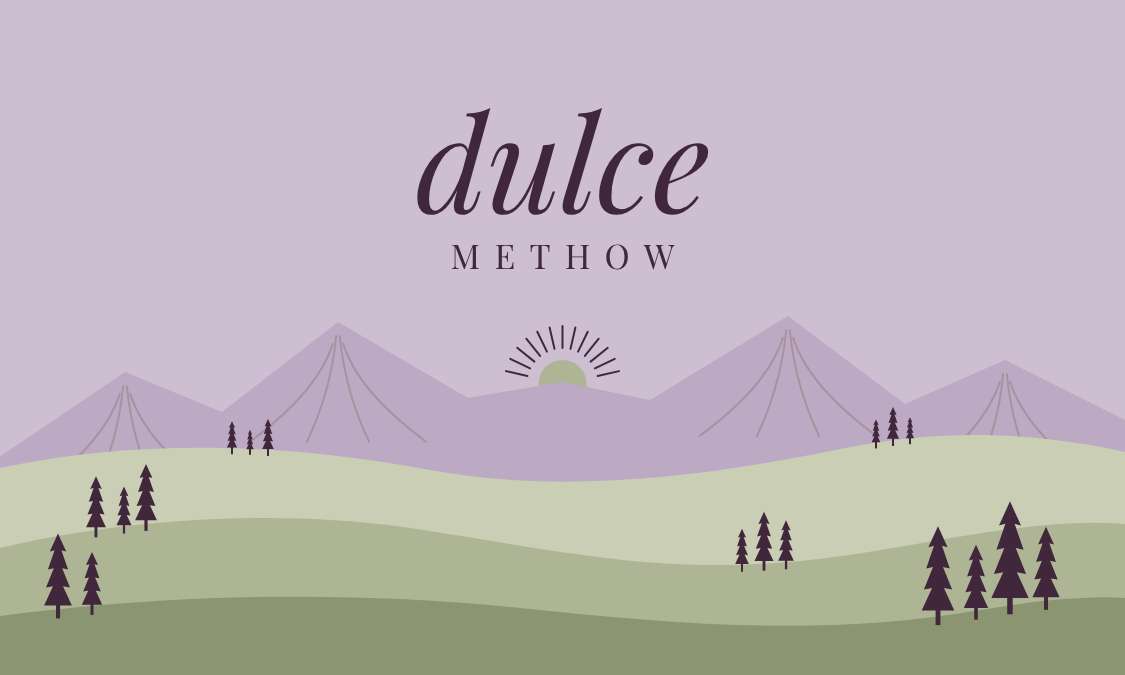
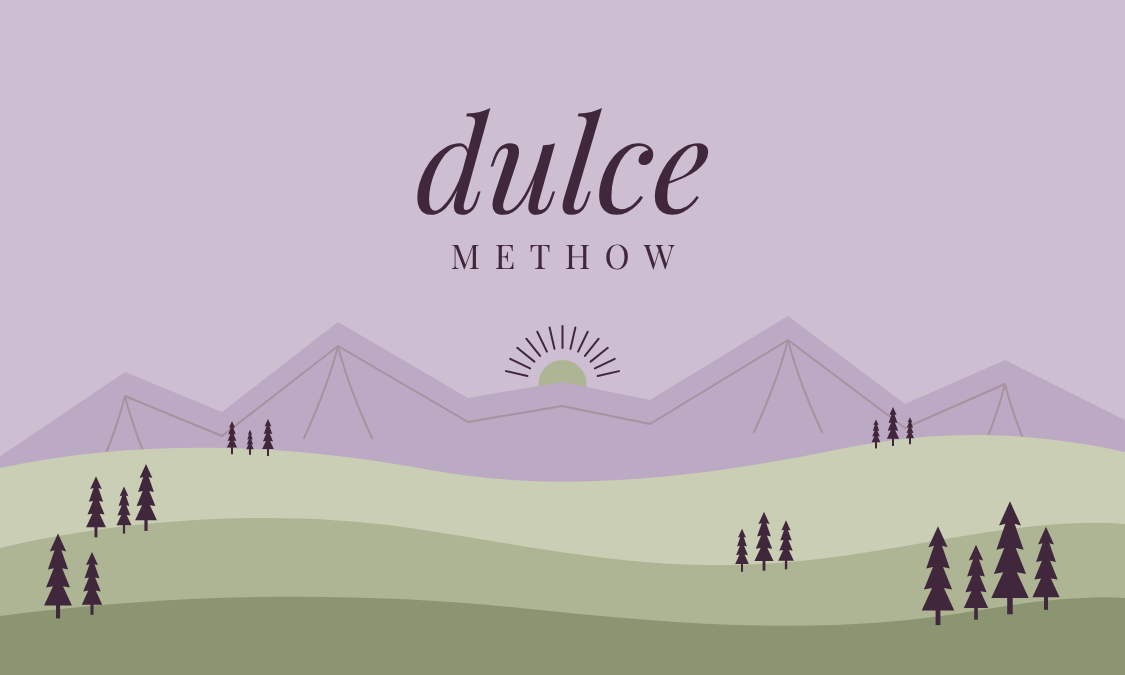
Redesign Dulce Methow business card 5 (modern minimal)
Claude-Session: https://claude.ai/code/session_013XA8P2WAmpXZJM5TfkydHJ

diff --git a/dulce-methow/tarjetas/4-kraft-sello/back.html b/dulce-methow/tarjetas/4-kraft-sello/back.html
@@ -2,59 +2,80 @@
 <html lang="en">
 <head>
 <meta charset="utf-8">
+<meta name="viewport" content="width=1125">
 <title>Dulce Methow card · Loyalty back</title>
 <link rel="stylesheet" href="https://fonts.googleapis.com/css2?family=Lora:ital,wght@0,400;0,500;1,400&family=Playfair+Display:ital,wght@0,400;0,600;1,400;1,500&display=swap">
 <style>
-  :root{--cream:#FAF6EB;--lav:#CDBED2;--sage:#AEB594;--plum:#40273B;--sand:#D9C7AE}
+  :root{--cream:#FAF6EB;--sage:#AEB594;--sagedark:#66704F;--plum:#40273B}
   body{margin:0;background:var(--cream)}
-  .card{position:relative;width:1125px;height:675px;overflow:hidden;background:var(--cream);color:var(--plum);text-align:center}
-  .title{position:absolute;left:75px;right:75px;top:92px;margin:0;font-family:'Playfair Display',serif;font-style:italic;font-weight:400;font-size:64px;line-height:1}
-  .sub{position:absolute;left:75px;right:75px;top:176px;margin:0;font-family:'Lora',serif;font-size:32px;line-height:1.2}
-  .grid{position:absolute;left:0;top:0}
-  .foot{position:absolute;left:75px;right:75px;top:540px;margin:0;font-family:'Lora',serif;font-size:28px;line-height:1.2;letter-spacing:.02em}
+  .card{position:relative;width:1125px;height:675px;overflow:hidden;background:var(--cream);color:var(--plum)}
+  .layer{position:absolute;left:0;top:0}
+  /* margins: x 110–1015, y 110–565 */
+  .wordmark{position:absolute;left:110px;top:104px;margin:0;white-space:nowrap;line-height:1}
+  .wordmark .d{font-family:'Playfair Display',serif;font-style:italic;font-size:40px}
+  .wordmark .m{font-family:'Playfair Display',serif;font-size:24px;letter-spacing:.4em;margin-left:12px}
+  .title{position:absolute;left:110px;top:243px;margin:0;font-family:'Playfair Display',serif;font-style:italic;font-weight:400;font-size:58px;line-height:1}
+  .rules{position:absolute;left:110px;top:323px;margin:0;font-family:'Lora',serif;font-size:28px;line-height:1.55}
+  .foot{position:absolute;left:110px;right:110px;bottom:110px;display:flex;justify-content:space-between;align-items:baseline;line-height:1}
+  .name{margin:0;display:flex;align-items:baseline}
+  .name .lab{font-family:'Lora',serif;font-weight:500;font-size:24px;letter-spacing:.22em;text-transform:uppercase;color:var(--sagedark)}
+  .name .blank{display:inline-block;width:330px;height:2px;background:var(--plum);margin-left:16px}
+  .handle{margin:0;font-family:'Lora',serif;font-size:28px;line-height:1}
+  .num{font-family:'Lora',serif;font-size:24px;letter-spacing:.12em;fill:#66704F}
 </style>
 </head>
 <body>
 <div class="card">
-  <p class="title">Sweet rewards</p>
-  <p class="sub">Buy 9 shell buns, the 10th is on us</p>
+  <p class="wordmark"><span class="d">dulce</span><span class="m">METHOW</span></p>
 
-  <svg class="grid" width="1125" height="675" viewBox="0 0 1125 675" aria-hidden="true">
-    <defs>
-      <circle id="slot" r="50" fill="none" stroke="#40273B" stroke-width="2.5"/>
-    </defs>
-    <!-- row 1 -->
-    <use href="#slot" x="282.5" y="318"/>
-    <use href="#slot" x="422.5" y="318"/>
-    <use href="#slot" x="562.5" y="318"/>
-    <use href="#slot" x="702.5" y="318"/>
-    <use href="#slot" x="842.5" y="318"/>
-    <!-- row 2 -->
-    <use href="#slot" x="282.5" y="448"/>
-    <use href="#slot" x="422.5" y="448"/>
-    <use href="#slot" x="562.5" y="448"/>
-    <use href="#slot" x="702.5" y="448"/>
-    <!-- 10th: sage fill + concha line icon -->
-    <g transform="translate(842.5 448)">
-      <circle r="50" fill="#AEB594" stroke="#40273B" stroke-width="2.5"/>
-      <g transform="translate(0 -2) scale(1.12)" fill="none" stroke="#40273B" stroke-width="2" stroke-linecap="round" stroke-linejoin="round">
-        <!-- bun dome -->
-        <path d="M-30 16 C-32 -8 -18 -26 0 -26 C18 -26 32 -8 30 16 Z" fill="#FAF6EB"/>
-        <!-- scored shell lines fanning from the base -->
-        <path d="M0 16 L0 -26"/>
-        <path d="M-3 16 C-10 2 -14 -12 -12 -23"/>
-        <path d="M3 16 C10 2 14 -12 12 -23"/>
-        <path d="M-6 16 C-17 6 -24 -4 -24 -15"/>
-        <path d="M6 16 C17 6 24 -4 24 -15"/>
-        <path d="M-9 16 C-20 12 -28 6 -30 -2"/>
-        <path d="M9 16 C20 12 28 6 30 -2"/>
-        <!-- plate line -->
-        <path d="M-36 22 L36 22"/>
+  <p class="title">Sweet rewards</p>
+  <p class="rules">Buy 9 shell buns,<br>the 10th is on us.</p>
+
+  <!-- stamp grid: 5 × 2, d = 81, gap 20 × 24, right edge on the 1015 margin -->
+  <svg class="layer" width="1125" height="675" viewBox="0 0 1125 675" aria-hidden="true">
+    <g fill="none" stroke="#40273B" stroke-width="2">
+      <circle cx="570.5" cy="285.5" r="40.5"/>
+      <circle cx="671.5" cy="285.5" r="40.5"/>
+      <circle cx="772.5" cy="285.5" r="40.5"/>
+      <circle cx="873.5" cy="285.5" r="40.5"/>
+      <circle cx="974.5" cy="285.5" r="40.5"/>
+      <circle cx="570.5" cy="390.5" r="40.5"/>
+      <circle cx="671.5" cy="390.5" r="40.5"/>
+      <circle cx="772.5" cy="390.5" r="40.5"/>
+      <circle cx="873.5" cy="390.5" r="40.5"/>
+    </g>
+    <g class="num" text-anchor="middle" dominant-baseline="central">
+      <text x="571.8" y="286.5">1</text>
+      <text x="672.8" y="286.5">2</text>
+      <text x="773.8" y="286.5">3</text>
+      <text x="874.8" y="286.5">4</text>
+      <text x="975.8" y="286.5">5</text>
+      <text x="571.8" y="391.5">6</text>
+      <text x="672.8" y="391.5">7</text>
+      <text x="773.8" y="391.5">8</text>
+      <text x="874.8" y="391.5">9</text>
+    </g>
+    <!-- 10th: Sage, concha line icon -->
+    <g transform="translate(974.5 390.5)">
+      <circle r="40.5" fill="#AEB594" stroke="#40273B" stroke-width="2"/>
+      <g fill="none" stroke="#40273B" stroke-width="2" stroke-linecap="round" stroke-linejoin="round">
+        <path d="M-23 11 C-24.5 -6 -13.5 -20 0 -20 C13.5 -20 24.5 -6 23 11 Z" fill="#FAF6EB"/>
+        <path d="M0 11 L0 -20"/>
+        <path d="M-2.5 11 C-8 0 -11 -10 -9.5 -18"/>
+        <path d="M2.5 11 C8 0 11 -10 9.5 -18"/>
+        <path d="M-5 11 C-13.5 4 -19 -3.5 -19 -11.5"/>
+        <path d="M5 11 C13.5 4 19 -3.5 19 -11.5"/>
+        <path d="M-7.5 11 C-16 8.5 -22 4 -23.5 -2"/>
+        <path d="M7.5 11 C16 8.5 22 4 23.5 -2"/>
+        <path d="M-28 17 L28 17"/>
       </g>
     </g>
   </svg>
 
-  <p class="foot">Pre-order by message · @dulcemethow</p>
+  <div class="foot">
+    <p class="name"><span class="lab">Name</span><span class="blank"></span></p>
+    <p class="handle">@dulcemethow</p>
+  </div>
 </div>
 </body>
 </html>

diff --git a/dulce-methow/tarjetas/3-paisaje-valle/front.html b/dulce-methow/tarjetas/3-paisaje-valle/front.html
@@ -30,22 +30,15 @@ body{margin:0;background:#FAF6EB}
 <line x1="594.9" y1="368.4" x2="614.8" y2="358.8" stroke="#40273B" stroke-width="2" stroke-linecap="round"/>
 <line x1="597.6" y1="376.0" x2="619.0" y2="371.1" stroke="#40273B" stroke-width="2" stroke-linecap="round"/>
 <path d="M-20,520 L-20.0,470.0 L125.0,372.0 L222.0,412.0 L338.0,322.0 L468.0,398.0 L562.0,382.0 L650.0,400.0 L788.0,316.0 L905.0,404.0 L1005.0,360.0 L1145.0,430.0 L1145,520 Z" fill="#BCA9C4"/>
-<path d="M119.9,393.9 Q104.6,442.0 36.6,492.0" fill="none" stroke="#A8929F" stroke-width="2" stroke-linecap="round"/>
-<path d="M123.2,386.2 Q117.8,442.0 93.8,492.0" fill="none" stroke="#A8929F" stroke-width="2" stroke-linecap="round"/>
-<path d="M126.8,386.2 Q132.2,442.0 156.2,492.0" fill="none" stroke="#A8929F" stroke-width="2" stroke-linecap="round"/>
-<path d="M130.1,393.9 Q145.4,442.0 213.4,492.0" fill="none" stroke="#A8929F" stroke-width="2" stroke-linecap="round"/>
-<path d="M332.9,343.9 Q317.6,392.0 249.6,442.0" fill="none" stroke="#A8929F" stroke-width="2" stroke-linecap="round"/>
-<path d="M336.2,336.2 Q330.8,392.0 306.8,442.0" fill="none" stroke="#A8929F" stroke-width="2" stroke-linecap="round"/>
-<path d="M339.8,336.2 Q345.2,392.0 369.2,442.0" fill="none" stroke="#A8929F" stroke-width="2" stroke-linecap="round"/>
-<path d="M343.1,343.9 Q358.4,392.0 426.4,442.0" fill="none" stroke="#A8929F" stroke-width="2" stroke-linecap="round"/>
-<path d="M782.9,337.9 Q767.6,386.0 699.6,436.0" fill="none" stroke="#A8929F" stroke-width="2" stroke-linecap="round"/>
-<path d="M786.2,330.2 Q780.8,386.0 756.8,436.0" fill="none" stroke="#A8929F" stroke-width="2" stroke-linecap="round"/>
-<path d="M789.8,330.2 Q795.2,386.0 819.2,436.0" fill="none" stroke="#A8929F" stroke-width="2" stroke-linecap="round"/>
-<path d="M793.1,337.9 Q808.4,386.0 876.4,436.0" fill="none" stroke="#A8929F" stroke-width="2" stroke-linecap="round"/>
-<path d="M999.9,381.9 Q984.6,430.0 916.6,480.0" fill="none" stroke="#A8929F" stroke-width="2" stroke-linecap="round"/>
-<path d="M1003.2,374.2 Q997.8,430.0 973.8,480.0" fill="none" stroke="#A8929F" stroke-width="2" stroke-linecap="round"/>
-<path d="M1006.8,374.2 Q1012.2,430.0 1036.2,480.0" fill="none" stroke="#A8929F" stroke-width="2" stroke-linecap="round"/>
-<path d="M1010.1,381.9 Q1025.4,430.0 1093.4,480.0" fill="none" stroke="#A8929F" stroke-width="2" stroke-linecap="round"/>
+<path d="M125.0,396.0 L222.0,436.0 L338.0,346.0 L468.0,422.0 L562.0,406.0 L650.0,424.0 L788.0,340.0 L905.0,428.0 L1005.0,384.0" fill="none" stroke="#A8929F" stroke-width="2" stroke-linejoin="round" stroke-linecap="round"/>
+<path d="M125.0,396.0 Q115.0,436.0 91.0,488.0" fill="none" stroke="#A8929F" stroke-width="2" stroke-linecap="round"/>
+<path d="M125.0,396.0 Q135.0,436.0 159.0,488.0" fill="none" stroke="#A8929F" stroke-width="2" stroke-linecap="round"/>
+<path d="M338.0,346.0 Q328.0,386.0 304.0,438.0" fill="none" stroke="#A8929F" stroke-width="2" stroke-linecap="round"/>
+<path d="M338.0,346.0 Q348.0,386.0 372.0,438.0" fill="none" stroke="#A8929F" stroke-width="2" stroke-linecap="round"/>
+<path d="M788.0,340.0 Q778.0,380.0 754.0,432.0" fill="none" stroke="#A8929F" stroke-width="2" stroke-linecap="round"/>
+<path d="M788.0,340.0 Q798.0,380.0 822.0,432.0" fill="none" stroke="#A8929F" stroke-width="2" stroke-linecap="round"/>
+<path d="M1005.0,384.0 Q995.0,424.0 971.0,476.0" fill="none" stroke="#A8929F" stroke-width="2" stroke-linecap="round"/>
+<path d="M1005.0,384.0 Q1015.0,424.0 1039.0,476.0" fill="none" stroke="#A8929F" stroke-width="2" stroke-linecap="round"/>
 <path d="M-5,468.0 L0.0,468.0 C150.0,436.0 300.0,446.0 430.0,470.0 C560.0,494.0 700.0,478.0 845.0,448.0 C965.0,424.0 1060.0,438.0 1125.0,452.0 L1130,680 L-5,680 Z" fill="#C9CEB4"/>
 <path d="M232.0,421.2 L235.0,427.8 L233.3,427.4 L235.7,434.4 L233.6,434.0 L236.4,441.0 L233.8,440.6 L237.1,447.6 L226.9,447.6 L230.2,440.6 L227.6,441.0 L230.4,434.0 L228.3,434.4 L230.7,427.4 L229.0,427.8 Z" fill="#40273B"/><rect x="231.0" y="446.6" width="2.0" height="7.6" fill="#40273B"/>
 <path d="M250.0,429.8 L252.2,434.7 L250.9,434.3 L252.7,439.5 L251.1,439.2 L253.2,444.4 L251.4,444.0 L253.7,449.2 L246.3,449.2 L248.6,444.0 L246.8,444.4 L248.9,439.2 L247.3,439.5 L249.1,434.3 L247.8,434.7 Z" fill="#40273B"/><rect x="249.0" y="448.2" width="2.0" height="6.6" fill="#40273B"/>

diff --git a/dulce-methow/tarjetas/4-kraft-sello/front.html b/dulce-methow/tarjetas/4-kraft-sello/front.html
@@ -17,8 +17,8 @@
   .name{margin:0;font-family:'Playfair Display',serif;font-style:italic;font-weight:400;font-size:54px;line-height:1;letter-spacing:.005em}
   .role{margin:18px 0 0;font-family:'Playfair Display',serif;font-weight:400;font-size:24px;line-height:1;letter-spacing:.28em;text-transform:uppercase}
   .rule{height:2px;background:var(--plum);margin:30px 0 26px;width:100%}
-  .lines{margin:0;font-family:'Lora',serif;font-size:28px;line-height:1.55;display:grid;grid-template-columns:60px 1fr}
-  .lines dt{font-family:'Lora',serif;font-weight:500;font-size:24px;letter-spacing:.14em;text-transform:uppercase;line-height:43.4px}
+  .lines{margin:0;font-family:'Lora',serif;font-size:28px;line-height:1.55;display:grid;grid-template-columns:60px 1fr;align-items:baseline}
+  .lines dt{font-family:'Lora',serif;font-weight:500;font-size:24px;letter-spacing:.14em;text-transform:uppercase;line-height:1}
   .lines dd{margin:0}
 </style>
 </head>
@@ -35,7 +35,7 @@
       <feColorMatrix type="matrix" values="0 0 0 0 0.98  0 0 0 0 0.96  0 0 0 0 0.92  0 0 0 0.9 -0.42"/>
     </filter>
     <rect width="1125" height="675" filter="url(#kraft)" opacity="0.16"/>
-    <rect width="1125" height="675" filter="url(#fibre)" opacity="0.22"/>
+    <rect width="1125" height="675" filter="url(#fibre)" opacity="0.10"/>
   </svg>
 
   <!-- stamp: cream disc, 2 px solid ring, outer ring of evenly spaced dots (120 × 11.31 px = 2π·216) -->

diff --git a/dulce-methow/tarjetas/5-minimal-tipografica/front.html b/dulce-methow/tarjetas/5-minimal-tipografica/front.html
@@ -8,7 +8,7 @@
   body{margin:0}
   .card{position:relative;width:1125px;height:675px;overflow:hidden;background:#CDBED2;color:#40273B}
   /* margin line: x = 110 px; bottom line: y = 565 px */
-  .mark{position:absolute;left:110px;top:178px}
+  .mark{position:absolute;left:110px;top:168px}
   .dulce{display:block;font-family:'Playfair Display',serif;font-style:italic;font-weight:400;font-size:260px;line-height:1;letter-spacing:-0.012em;margin:0 0 0 -3px}
   .methow{display:block;font-family:'Playfair Display',serif;font-weight:400;font-size:30px;line-height:1;letter-spacing:0.45em;margin:20px 0 0 0}
   .foot{position:absolute;left:110px;right:110px;bottom:110px;display:flex;justify-content:space-between;align-items:baseline;

diff --git a/dulce-methow/tarjetas/5-minimal-tipografica/back.html b/dulce-methow/tarjetas/5-minimal-tipografica/back.html
@@ -38,7 +38,7 @@
     <path d="M2 49 A43 43 0 0 1 88 49"/>
     <path d="M0 49 H90"/>
     <path d="M4.6 35 L22 19 L33 29 L45 11 L57 29 L68 19 L85.4 35"/>
-    <path d="M22 19 Q27 38 37 49 M45 11 V49 M68 19 Q63 38 53 49"/>
+    <path d="M33 29 Q35 41 40 49 M57 29 Q55 41 50 49"/>
   </svg>
 </div>
 </body>
